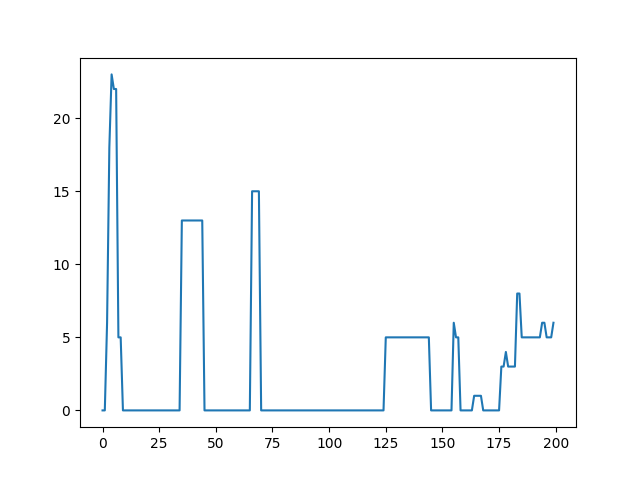
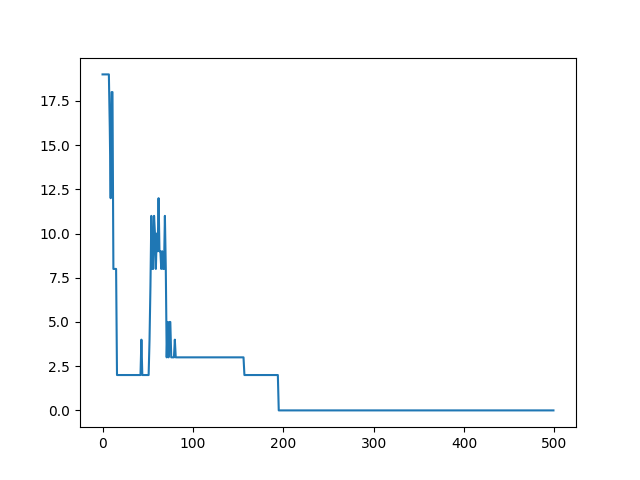
this is interesting

diff --git a/roadmaps/adamsmap/adamsmap_main.py b/roadmaps/adamsmap/adamsmap_main.py
@@ -20,7 +20,7 @@ from adamsmap import (
 
 if __name__ == "__main__":
     # Graph
-    N = 600
+    N = 200
 
     # Paths
     nn = 3
@@ -28,7 +28,7 @@ if __name__ == "__main__":
 
     # Training
     ntb = 100  # batch size
-    nts = 200  # number of batches
+    nts = 500  # number of batches
 
     # Evaluation
     ne = 50  # evaluation set size
@@ -43,7 +43,7 @@ if __name__ == "__main__":
     evalcosts = []
     evalunsucc = []
 
-    alpha = 0.07
+    alpha = 0.01
     beta_1 = 0.9
     beta_2 = 0.999
     epsilon = 10E-8
